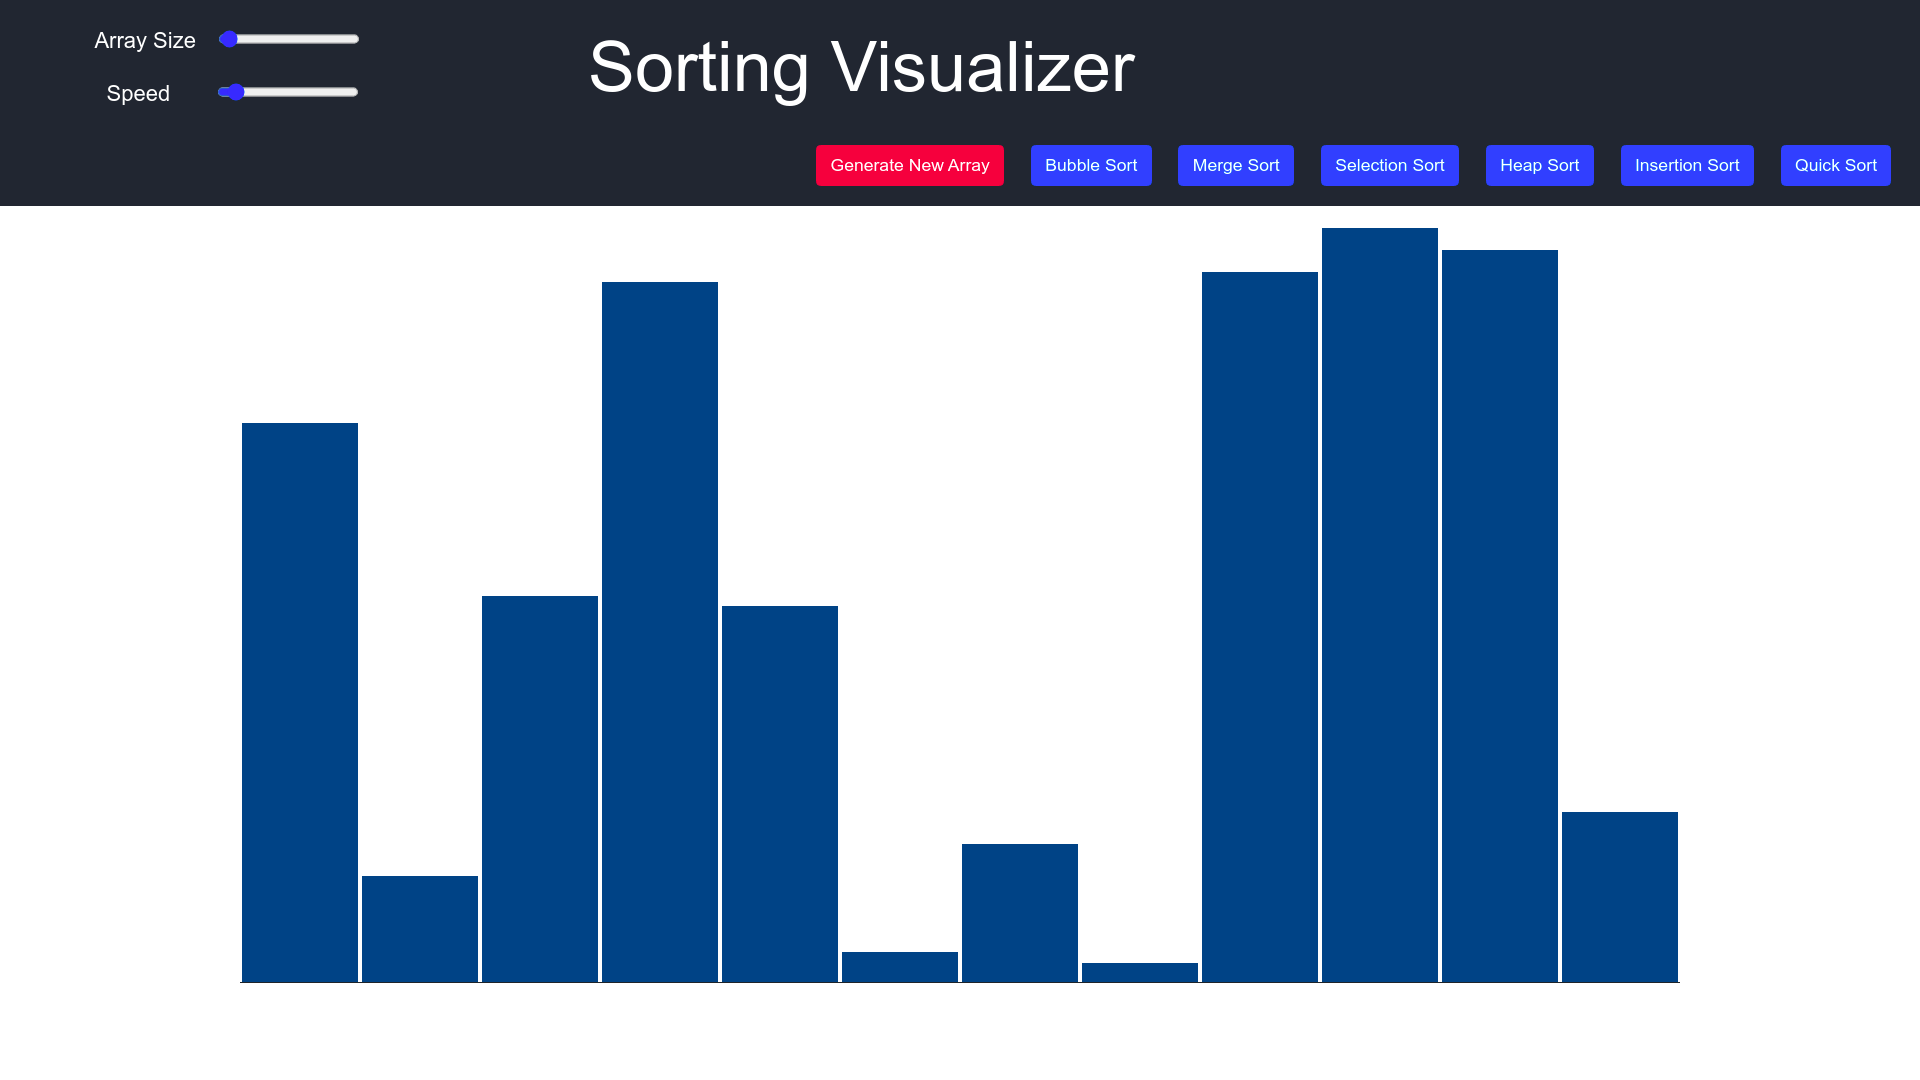
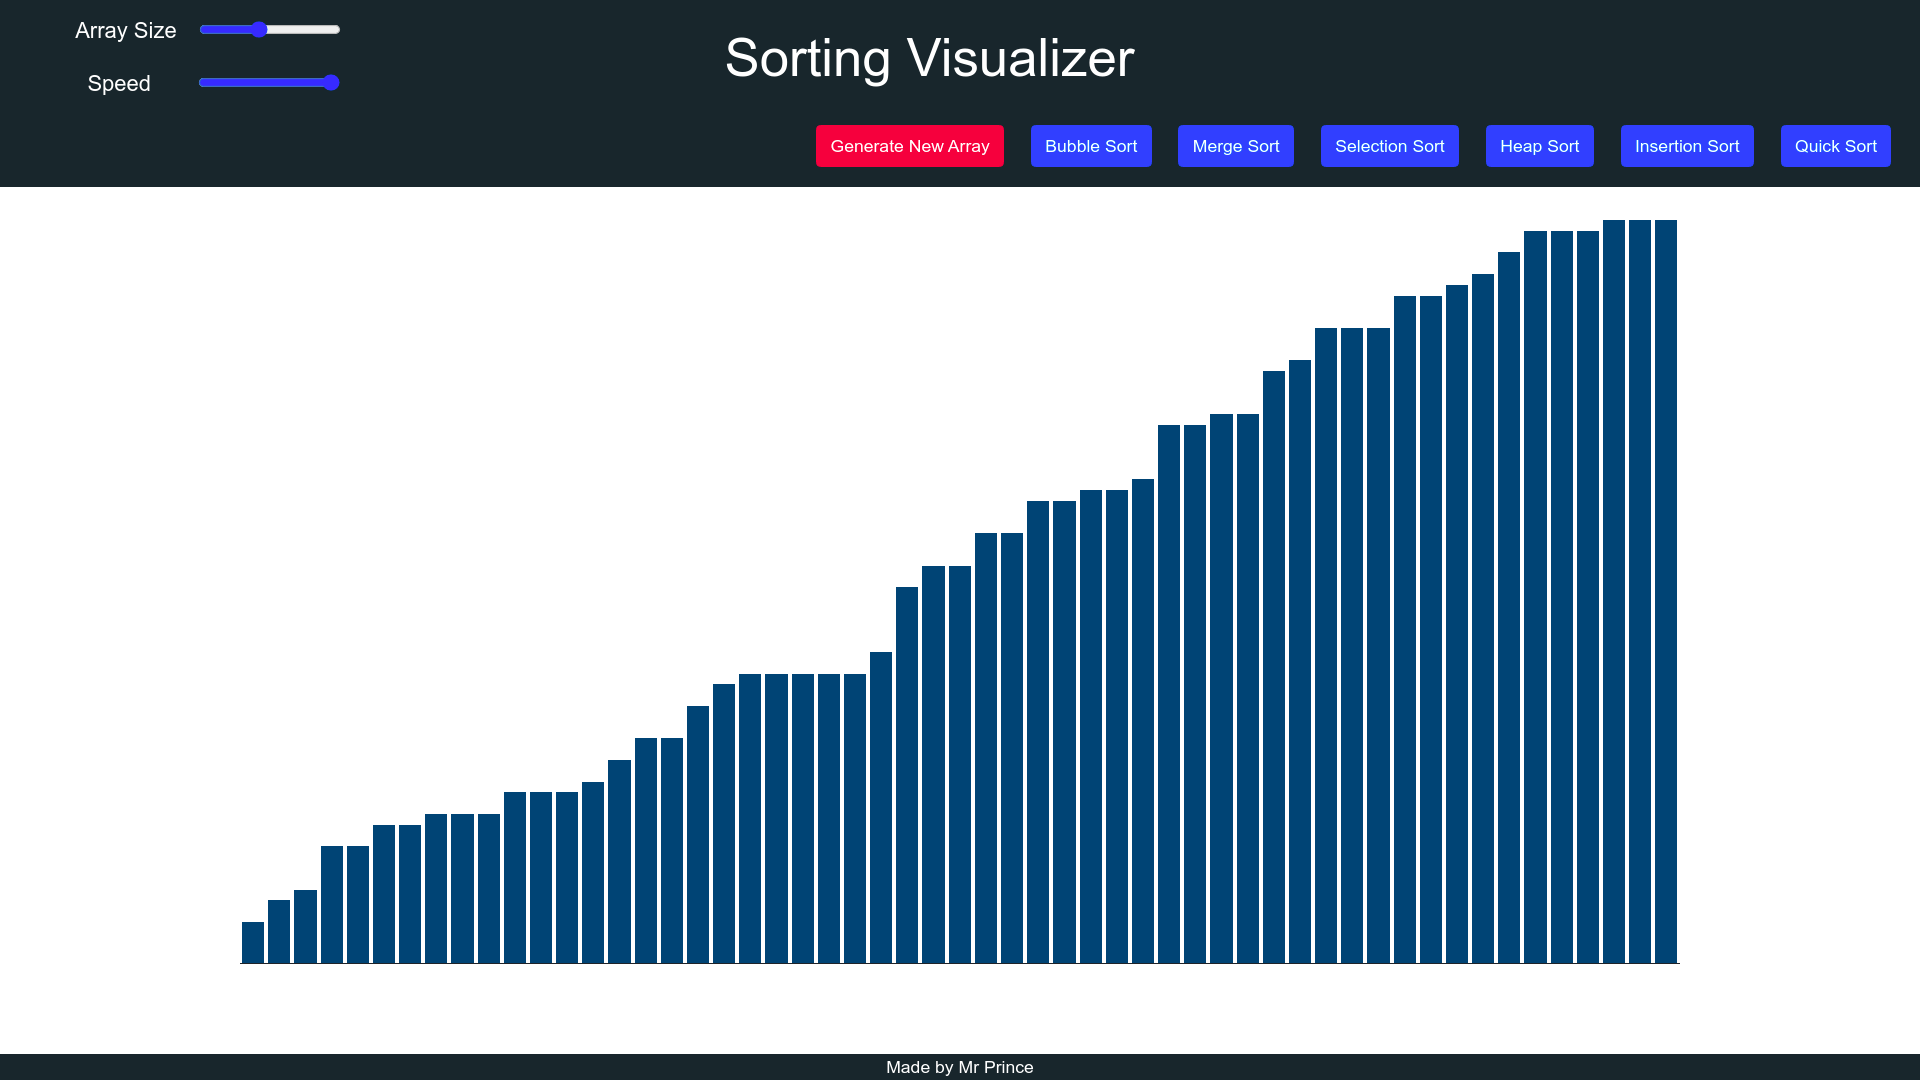
updated for small screens

Changed region(s): [[0.0, 0.0306, 1.0, 0.9167], [0.0, 0.9778, 1.0, 1.0], [0.0312, 0.0, 0.1875, 0.0917]]

diff --git a/app.js b/app.js
@@ -12,6 +12,10 @@ let nums;
 let n;
 let newArr = [];
 
+function isOverflown(element) {
+    return element.scrollHeight > element.clientHeight || element.scrollWidth > element.clientWidth;
+}
+
 function draw() {
 
     for (let i = 0; i < slider1.value; i++) {
@@ -19,13 +23,17 @@ function draw() {
         newArr.push(arr[i]);
     }
     newArr.sort((a, b) => a - b);
-    console.log(newArr);
     n = arr.length;
     for (let i = 0; i < n; i++) {
+        if (isOverflown(grid)) {
+            slider1.max = i;
+            slider.value = i;
+            break;
+        }
         let num = document.createElement('div');
         let arrEntry = document.createElement('div');
         const h = arr[i],
-            w = 80 / n;
+            w = 75 / n;
         num.classList.add('number');
         num.style.height = h + "vh";
         num.style.width = w + "vw";
@@ -55,6 +63,13 @@ async function colorUp() {
         nums[i].classList.add('sorted');
         await wait();
     }
+}
+
+function removeColor() {
+    if (!nums[0].classList.contains('sorted'))
+        return;
+    for (let i = 0; i < n; i++)
+        nums[i].classList.remove('sorted');
 }
 
 function removeOne(i) {
@@ -107,6 +122,7 @@ function enableAllButtons() {
 
 navbuttons.forEach(i => {
     i.addEventListener('click', () => {
+        removeColor();
         switch (i.id) {
             case '1':
                 lockAllButtons();

diff --git a/style.css b/style.css
@@ -1,14 +1,17 @@
 .navbar {
-	background-color:#222831;
+	background-color:#1b262c;
+}
+.body {
+	background-color:#bbe1fa;
 }
 
 .heading {
-	font-size:4rem;
+	font-size:3rem;
 	margin-right:40vw;
 }
 
 .sliders{
-	margin-left: 4vw;
+	margin-left: 3vw;
 }
 
 .board {
@@ -21,12 +24,12 @@
 	width: 100%;
 	color: white;
 	margin:0 auto;
-	background-color: #222831;
+	background-color: #1b262c;
 	text-align: center;
 	vertical-align: middle;
 }
 .grid {
-	margin:2vh;
+	margin:3vh;
 	display:flex;
 	height: 70vh;
 	width:75vw;
@@ -37,7 +40,7 @@
 	align-self: flex-end;
 	border: 2.5px solid white;
 	border-bottom:0;
-	background-color:#005086;
+	background-color:#3282b8;
 }
 button {
 	margin:10px;
@@ -55,5 +58,5 @@ button {
 }
 
 .sorted {
-	background-color:#48426d;
+	background-color:#0f4c75;
 }

diff --git a/README.md b/README.md
@@ -1,4 +1,5 @@
 # Sorting Visualizer Using VanillaJS
 
- ![Screenshot](Screenshot.png)
+Check it out: https://mrprince88.github.io/SortingVisualizer/index.html
 
+ ![Screenshot](Screenshot.png)
